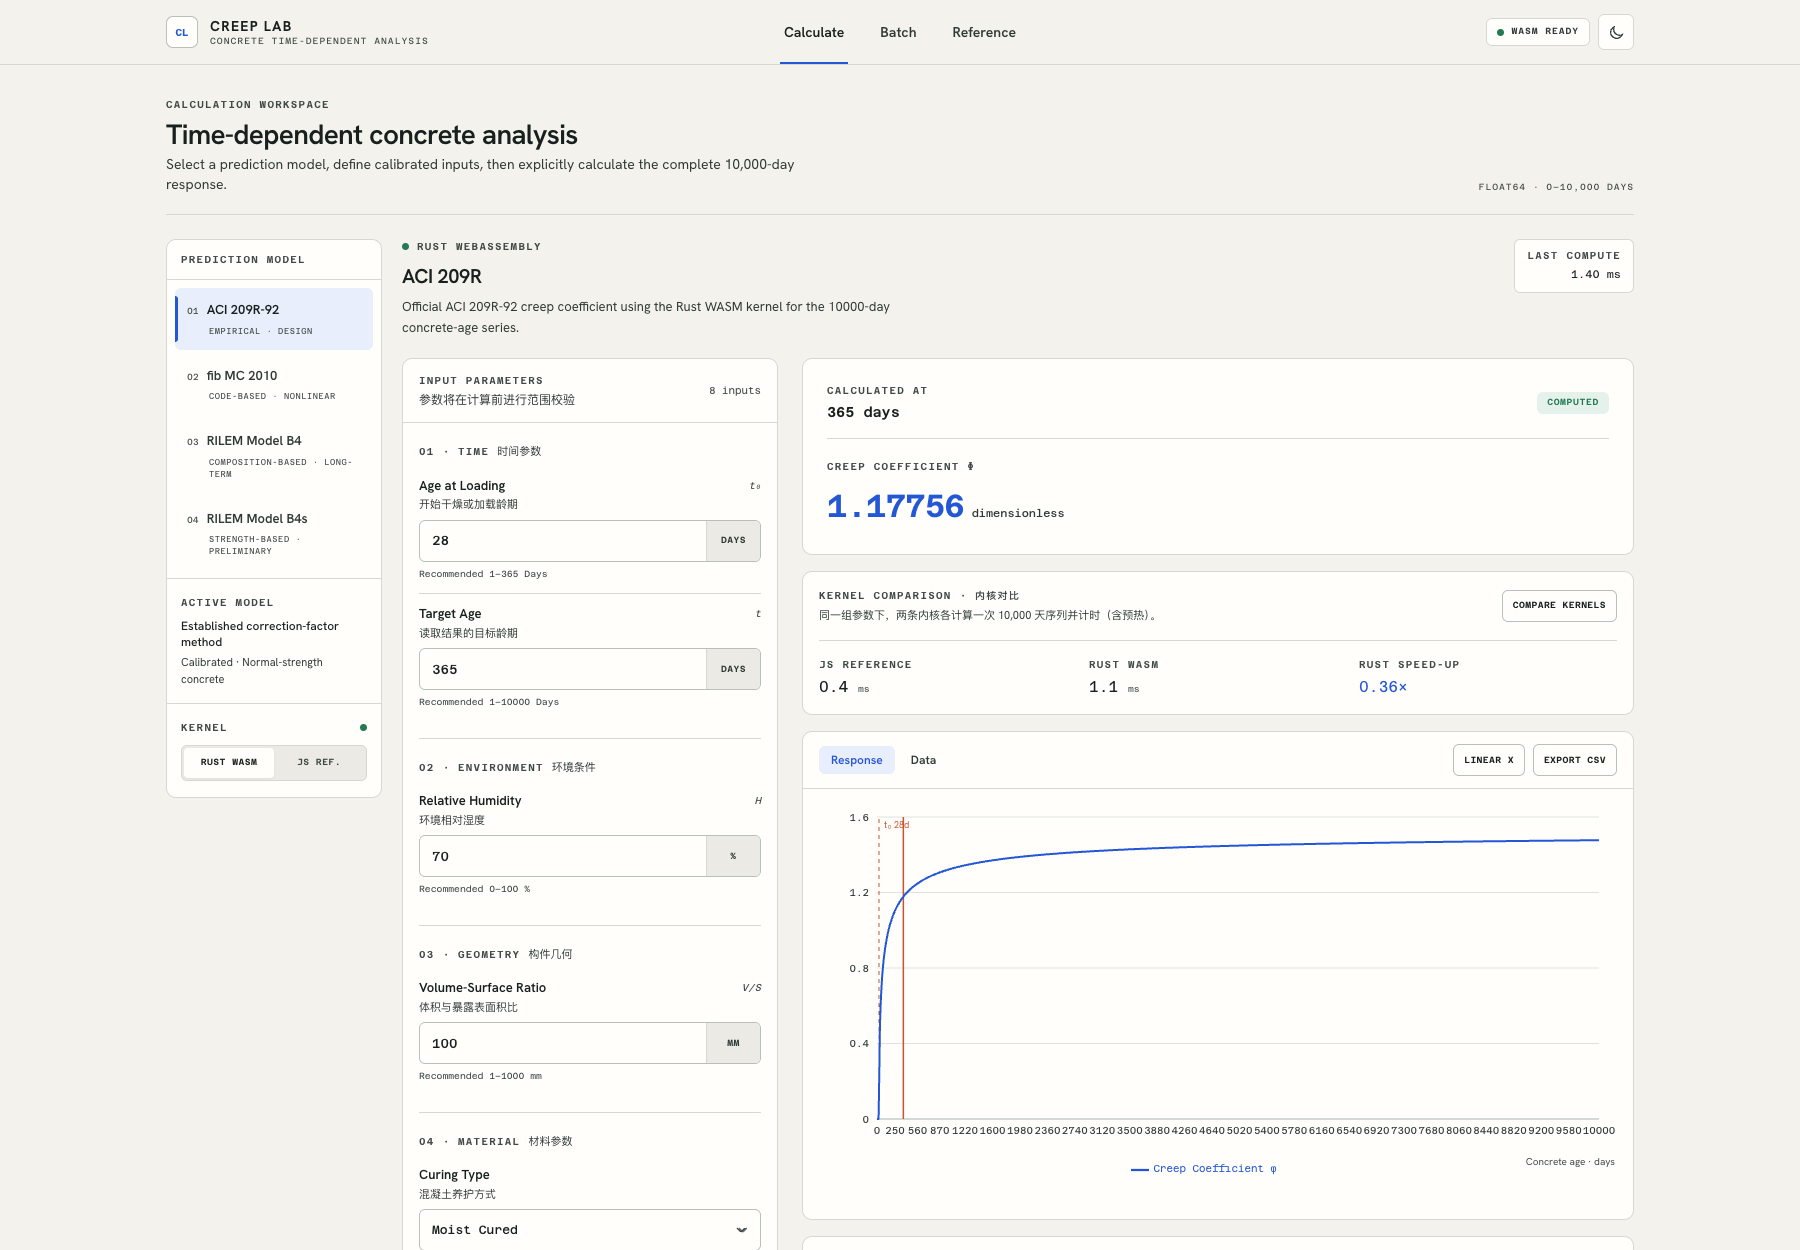
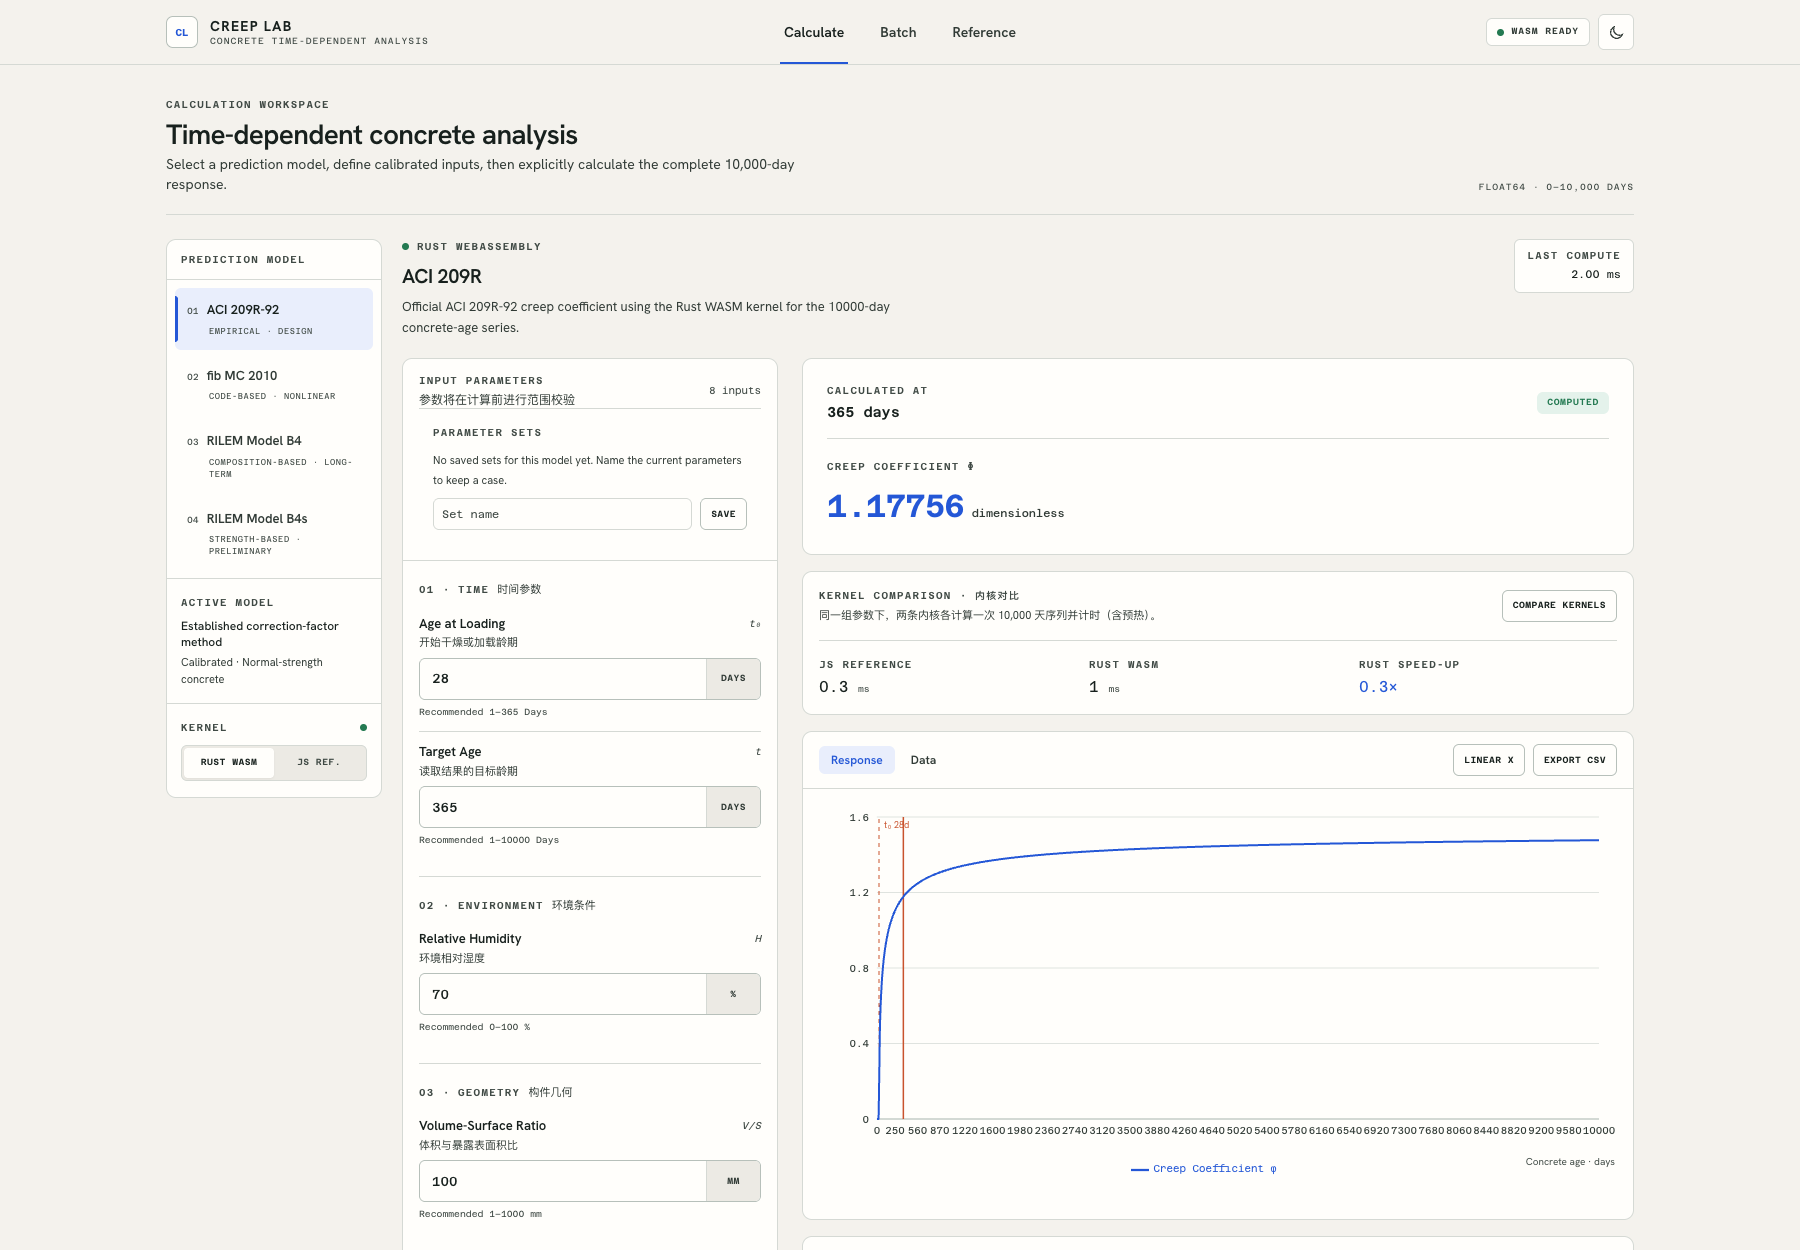
feat(params): keep a case as a named parameter set, and a way back to defaults
The audit found no way to keep a case: comparing two mixtures meant re-typing
every parameter, and the only record of a calculation was the screenshot you took
of it.

Named sets per model, saved locally: name the current parameters, then Load or
Delete. Saving an existing name replaces it instead of duplicating, and a blank
name is refused rather than creating an unnamed set. Suggestions are not made
about which set to load — the choice is the user's.

Once parameters persist locally there is also no way back to the shipped values,
so the panel offers Reset, which forgets the model's edits and lets it fall back
to its own defaults. It only appears when there is something to reset.

Placed under the "Input parameters" header rather than below the grid: below
twenty B4 fields it would only ever be found by scrolling, which defeats the
point of saving a case. It works entirely through the store, so it needs nothing
from the lazily loaded calculators.

Six tests, including the round trip that matters — save a set, change the fields,
load it back — plus per-model isolation, reload persistence, and reset.

The single-workspace screenshots are regenerated; the batch and reference shots
are untouched.

diff --git a/src/components/parameterSets.test.jsx b/src/components/parameterSets.test.jsx
@@ -1,0 +1,80 @@
+import { fireEvent, render, screen, waitFor } from '@testing-library/react';
+import { describe, expect, test } from 'vitest';
+import App from '../App';
+import { getState, resetModelParams, saveParameterSet } from '../state/appStore';
+
+const CALC_HEADING = /time-dependent concrete analysis/i;
+
+async function openCalculate() {
+  render(<App />);
+  await screen.findByRole('heading', { name: CALC_HEADING });
+  return screen.findByLabelText(/Relative Humidity/i);
+}
+
+/**
+ * Regression: the audit found no way to keep a case — comparing two mixtures
+ * meant re-typing every parameter — and, once parameters persist locally, no way
+ * back to the shipped values.
+ *
+ * The store is reset before each case by setupTests.
+ */
+describe('parameter sets', () => {
+  test('a saved set brings a whole case back after the fields were changed', async () => {
+    const humidity = await openCalculate();
+    fireEvent.change(humidity, { target: { value: '35' } });
+    fireEvent.blur(humidity);
+    await waitFor(() => expect(humidity.value).toBe('35'));
+
+    fireEvent.change(screen.getByLabelText(/New parameter set name/i), { target: { value: 'dry site' } });
+    fireEvent.click(screen.getByRole('button', { name: 'Save' }));
+    await waitFor(() => expect(screen.getByLabelText(/Saved parameter set/i)).toHaveValue('dry site'));
+
+    // Change the case, then load the saved one back.
+    fireEvent.change(humidity, { target: { value: '90' } });
+    fireEvent.blur(humidity);
+    await waitFor(() => expect(humidity.value).toBe('90'));
+
+    fireEvent.click(screen.getByRole('button', { name: 'Load' }));
+    await waitFor(() => expect(screen.getByLabelText(/Relative Humidity/i).value).toBe('35'));
+  });
+
+  test('a set is per model and survives a reload', async () => {
+    saveParameterSet('b4', 'long span', { t0: 28, h: 120 });
+    const first = render(<App />);
+    await screen.findByRole('heading', { name: CALC_HEADING });
+    first.unmount();
+
+    render(<App />);
+    await screen.findByRole('heading', { name: CALC_HEADING });
+    // The ACI model is selected, so B4's set must not be offered here.
+    expect(screen.getByText(/No saved sets for this model yet/i)).toBeInTheDocument();
+    expect(getState().parameterSets.b4).toEqual([{ name: 'long span', params: { t0: 28, h: 120 } }]);
+  });
+
+  test('reset returns the model to its shipped defaults', async () => {
+    const humidity = await openCalculate();
+    fireEvent.change(humidity, { target: { value: '35' } });
+    fireEvent.blur(humidity);
+    await waitFor(() => expect(humidity.value).toBe('35'));
+
+    fireEvent.click(screen.getByRole('button', { name: /^Reset$/i }));
+    await waitFor(() => expect(screen.getByLabelText(/Relative Humidity/i).value).toBe('70'));
+  });
+
+  test('saving an existing name replaces it rather than duplicating', () => {
+    saveParameterSet('aci209', 'case', { H: 50 });
+    saveParameterSet('aci209', 'case', { H: 80 });
+    expect(getState().parameterSets.aci209).toEqual([{ name: 'case', params: { H: 80 } }]);
+  });
+
+  test('a blank name is refused instead of creating an unnamed set', () => {
+    saveParameterSet('aci209', '   ', { H: 50 });
+    expect(getState().parameterSets.aci209).toBeUndefined();
+  });
+
+  test('resetModelParams forgets the edits', () => {
+    saveParameterSet('aci209', 'x', { H: 1 });
+    resetModelParams('aci209');
+    expect(getState().paramsByModel.aci209).toBeUndefined();
+  });
+});

diff --git a/src/components/ui/ParameterSets.jsx b/src/components/ui/ParameterSets.jsx
@@ -1,0 +1,90 @@
+import React, { useState } from 'react';
+import {
+  deleteParameterSet,
+  loadParameterSet,
+  resetModelParams,
+  saveParameterSet,
+  useAppSelector,
+} from '../../state/appStore';
+import CustomSelect from './CustomSelect';
+
+/**
+ * Named parameter sets for the selected model.
+ *
+ * The audit found no way to keep a case: parameters were re-typed to compare two
+ * mixtures, and once they persist locally there was also no way back to the
+ * shipped defaults. This panel is the whole of both.
+ *
+ * It works entirely through the store, so it needs nothing from the (lazily
+ * loaded) calculators: loading a set writes the model's parameters and the
+ * parameter grid re-renders from them.
+ */
+export default function ParameterSets({ modelId, params }) {
+  const sets = useAppSelector((state) => state.parameterSets[modelId]);
+  const edited = useAppSelector((state) => Boolean(state.paramsByModel[modelId]));
+  const [name, setName] = useState('');
+  const [selected, setSelected] = useState('');
+
+  const saved = sets ?? [];
+  const chosen = selected || saved[0]?.name || '';
+
+  const save = () => {
+    const trimmed = name.trim() || `Set ${saved.length + 1}`;
+    saveParameterSet(modelId, trimmed, params);
+    setName('');
+    setSelected(trimmed);
+  };
+
+  return (
+    <div className="border-t border-line px-3.5 py-4">
+      <div className="mb-2.5 flex items-center justify-between">
+        <span className="eyebrow">Parameter sets</span>
+        {edited && (
+          <button onClick={() => resetModelParams(modelId)} className="font-mono text-4xs uppercase tracking-[.06em] text-faint hover:text-primary">
+            Reset
+          </button>
+        )}
+      </div>
+
+      {saved.length > 0 ? (
+        <div className="space-y-2">
+          <CustomSelect
+            name="parameter-set"
+            ariaLabel="Saved parameter set"
+            value={chosen}
+            onChange={(event) => setSelected(event.target.value)}
+            options={saved.map((set) => ({ value: set.name, label: set.name }))}
+          />
+          <div className="flex gap-2">
+            <button
+              onClick={() => loadParameterSet(modelId, chosen)}
+              className="button-secondary !min-h-8 flex-1 !px-2 !text-3xs"
+            >
+              Load
+            </button>
+            <button
+              onClick={() => { deleteParameterSet(modelId, chosen); setSelected(''); }}
+              className="button-secondary !min-h-8 flex-1 !px-2 !text-3xs"
+            >
+              Delete
+            </button>
+          </div>
+        </div>
+      ) : (
+        <p className="text-[11px] leading-5 text-muted">No saved sets for this model yet. Name the current parameters to keep a case.</p>
+      )}
+
+      <div className="mt-2 flex gap-2">
+        <input
+          value={name}
+          onChange={(event) => setName(event.target.value)}
+          onKeyDown={(event) => { if (event.key === 'Enter') save(); }}
+          placeholder="Set name"
+          aria-label="New parameter set name"
+          className="h-8 min-w-0 flex-1 rounded-md border border-line bg-surface px-2 font-mono text-1xs text-primary outline-none placeholder:text-faint focus:border-line-strong"
+        />
+        <button onClick={save} className="button-secondary !min-h-8 !px-2.5 !text-3xs">Save</button>
+      </div>
+    </div>
+  );
+}

diff --git a/src/state/appStore.js b/src/state/appStore.js
@@ -23,6 +23,7 @@ import { useSyncExternalStore } from 'react';
  * Object.is and will loop otherwise.
  */
 const PARAMS_KEY = 'creep-lab:paramsByModel';
+const SETS_KEY = 'creep-lab:parameterSets';
 
 /** Parameters survive a reload; the URL carries navigation only. */
 function loadParams() {
@@ -32,6 +33,24 @@ function loadParams() {
     return parsed && typeof parsed === 'object' ? parsed : {};
   } catch {
     return {}; // a corrupt entry must not stop the app from starting
+  }
+}
+
+function loadSets() {
+  try {
+    const raw = globalThis.localStorage?.getItem(SETS_KEY);
+    const parsed = raw ? JSON.parse(raw) : null;
+    return parsed && typeof parsed === 'object' ? parsed : {};
+  } catch {
+    return {};
+  }
+}
+
+function persistSets(parameterSets) {
+  try {
+    globalThis.localStorage?.setItem(SETS_KEY, JSON.stringify(parameterSets));
+  } catch {
+    // storage can be full or blocked; the app still works without persistence
   }
 }
 
@@ -50,6 +69,8 @@ const initialState = {
   model: 'aci209',
   /** modelId -> the parameters the user has actually edited */
   paramsByModel: loadParams(),
+  /** modelId -> [{ name, params }] named parameter sets the user saved */
+  parameterSets: loadSets(),
   /** the batch pipeline's dataset and view settings, per the fields below */
   batch: {
     modelId: 'b4',
@@ -107,6 +128,41 @@ export function saveModelParams(modelId, params) {
   set({ paramsByModel });
 }
 
+/** Save the given parameters under a name; saving an existing name replaces it. */
+export function saveParameterSet(modelId, name, params) {
+  const trimmed = name.trim();
+  if (!trimmed) return;
+  const existing = state.parameterSets[modelId] ?? [];
+  const next = [...existing.filter((set) => set.name !== trimmed), { name: trimmed, params }];
+  const parameterSets = { ...state.parameterSets, [modelId]: next };
+  persistSets(parameterSets);
+  set({ parameterSets });
+}
+
+export function deleteParameterSet(modelId, name) {
+  const next = (state.parameterSets[modelId] ?? []).filter((set) => set.name !== name);
+  const parameterSets = { ...state.parameterSets, [modelId]: next };
+  persistSets(parameterSets);
+  set({ parameterSets });
+}
+
+/** Load a saved set into the model's parameters, as if the user had typed it. */
+export function loadParameterSet(modelId, name) {
+  const found = (state.parameterSets[modelId] ?? []).find((set) => set.name === name);
+  if (found) saveModelParams(modelId, { ...found.params });
+}
+
+/**
+ * Forget the model's edits so it falls back to its own defaults. Needed once
+ * parameters persist: without it there is no way back to the shipped values.
+ */
+export function resetModelParams(modelId) {
+  const paramsByModel = { ...state.paramsByModel };
+  delete paramsByModel[modelId];
+  persistParams(paramsByModel);
+  set({ paramsByModel });
+}
+
 export function updateBatch(patch) {
   set({ batch: { ...state.batch, ...patch } });
 }
@@ -115,10 +171,11 @@ export function updateBatch(patch) {
 export function resetStore() {
   try {
     globalThis.localStorage?.removeItem(PARAMS_KEY);
+    globalThis.localStorage?.removeItem(SETS_KEY);
   } catch {
     // nothing to clear
   }
-  state = { ...initialState, paramsByModel: {} };
+  state = { ...initialState, paramsByModel: {}, parameterSets: {} };
   listeners.forEach((listener) => listener());
 }
 

diff --git a/src/components/ui/DynamicParameters.jsx b/src/components/ui/DynamicParameters.jsx
@@ -1,3 +1,4 @@
+import ParameterSets from './ParameterSets';
 import React, { useEffect, useMemo, useRef, useState } from 'react';
 import CustomSelect from './CustomSelect';
 
@@ -94,7 +95,7 @@ function ParameterField({ config, value, onChange }) {
   );
 }
 
-export default function DynamicParameters({ paramsConfig, params, onParamChange, onCalculate, calculateReady, buttonText, dirty }) {
+export default function DynamicParameters({ modelId, paramsConfig, params, onParamChange, onCalculate, calculateReady, buttonText, dirty }) {
   const grouped = useMemo(
     () => GROUPS
       .map((group) => ({ ...group, items: paramsConfig.filter((item) => groupFor(item.name) === group.id) }))
@@ -118,6 +119,9 @@ export default function DynamicParameters({ paramsConfig, params, onParamChange,
           </div>
           <span className="font-mono text-2xs text-faint">{paramsConfig.length} inputs</span>
         </div>
+        {/* Above the grid, not below it: saving and loading a case is how you get
+            back to one, and below twenty fields it would only be found by scrolling. */}
+        <ParameterSets modelId={modelId} params={params} />
       </div>
       <div className="px-4">
         {grouped.map((group, index) => {

diff --git a/src/components/ui/CalculatorWrapper.jsx b/src/components/ui/CalculatorWrapper.jsx
@@ -291,7 +291,7 @@ function NoticeBanner({ notices, onDismiss }) {
 }
 
 export default function CalculatorWrapper({
-  modelName,
+  modelId, modelName,
   modelDescription,
   engine,
   paramsConfig,
@@ -352,6 +352,7 @@ export default function CalculatorWrapper({
       <div className="grid items-start gap-5 lg:grid-cols-[minmax(320px,380px)_minmax(0,1fr)]">
         <div className="lg:sticky lg:top-[88px] lg:max-h-[calc(100dvh-112px)] lg:overflow-y-auto lg:pr-1">
           <DynamicParameters
+            modelId={modelId}
             paramsConfig={paramsConfig}
             params={params}
             onParamChange={onParamChange}

diff --git a/src/components/ModelCalculator.jsx b/src/components/ModelCalculator.jsx
@@ -190,6 +190,7 @@ export default function ModelCalculator({ engine, config, onEngineFallback }) {
 
   return (
     <CalculatorWrapper
+      modelId={config.id}
       modelName={config.name}
       modelDescription={config.descriptions[engine]}
       engine={engine}
